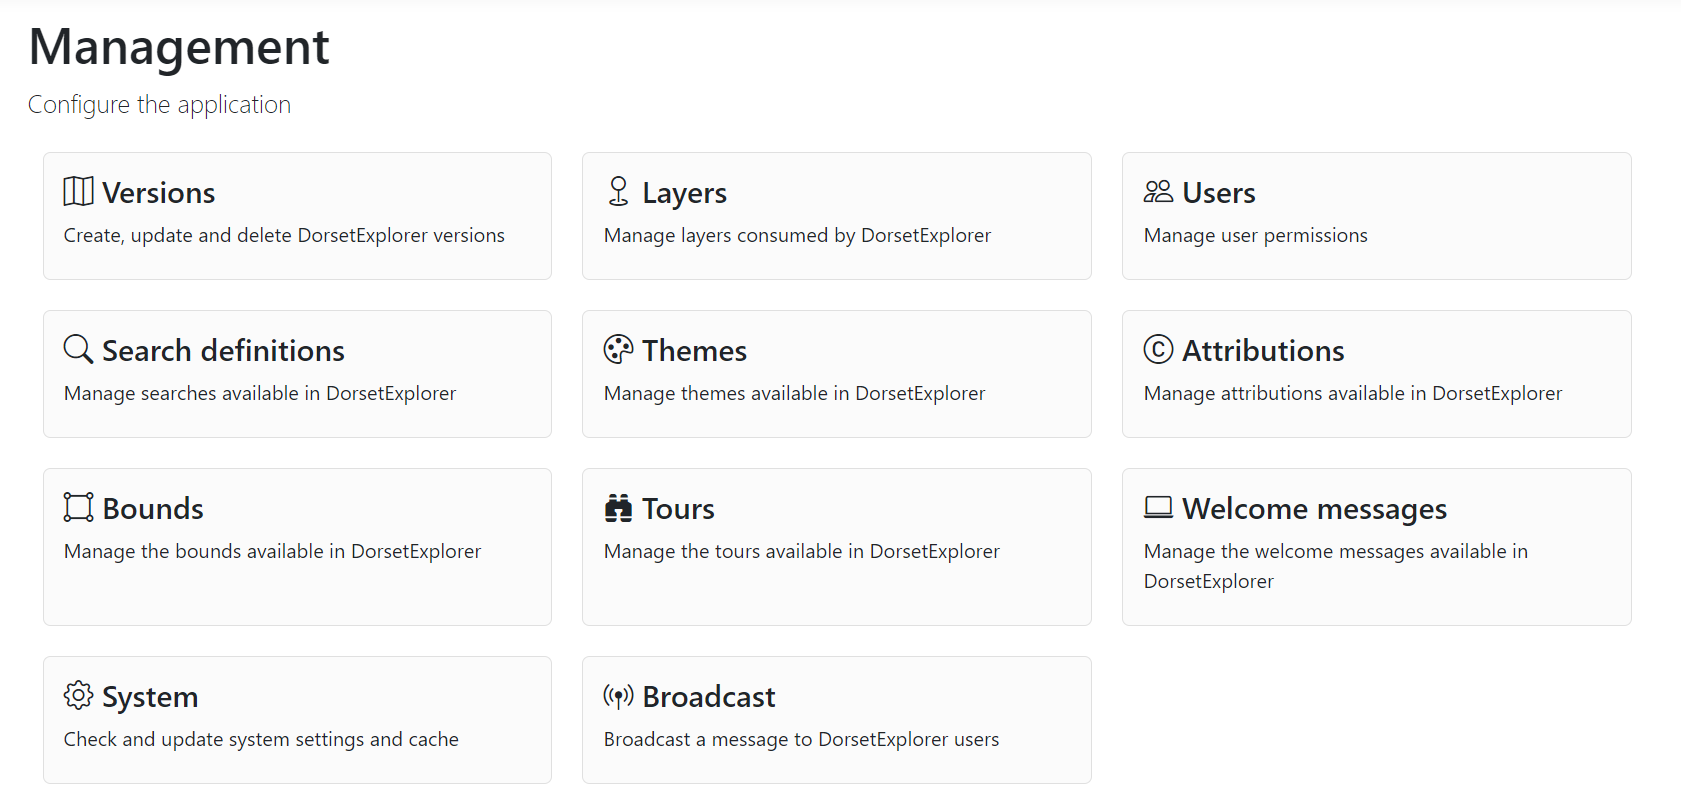
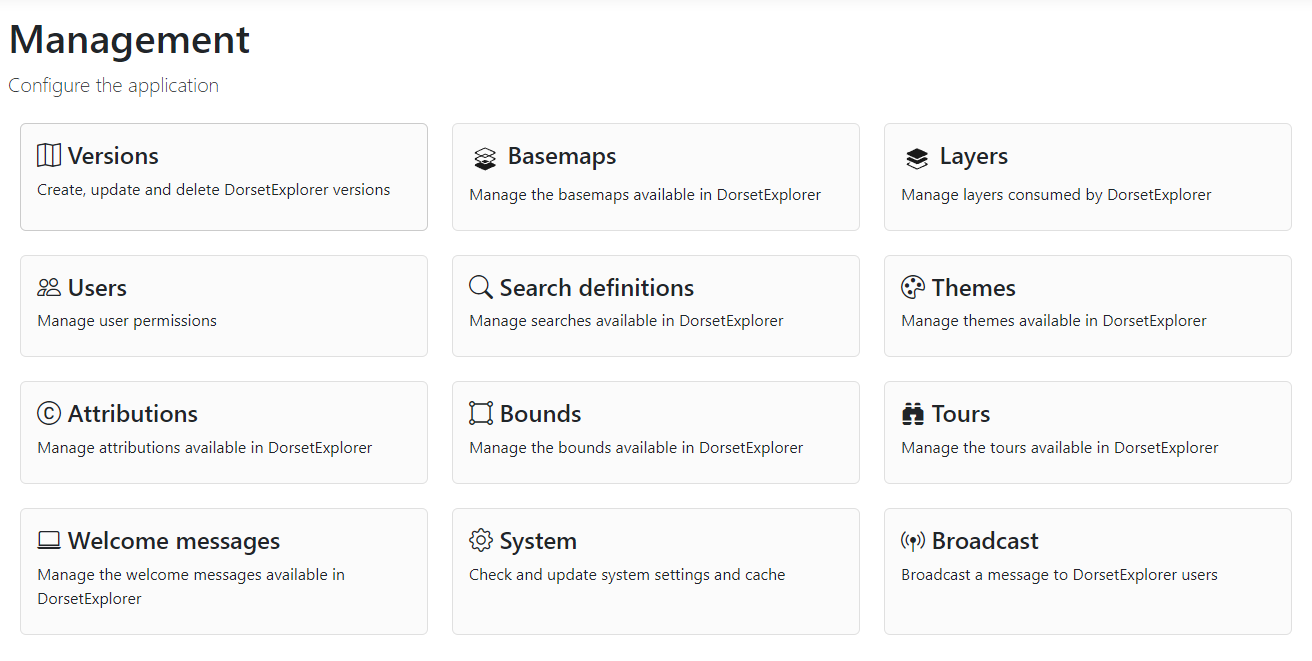
Add basemaps GUI and update image

diff --git a/docs/gui/basemaps.md b/docs/gui/basemaps.md
@@ -1,0 +1,21 @@
+# Basemaps
+
+All [versions](../gui/versions.md) have one or more basemaps (sometimes referred to as background maps). A basemap is made up of a layer source and a basemap definition.
+
+### Creating the layer source
+
+A basemap first requires a [layer source](../gui/layers.md) to be created that defines where the layer comes from.
+
+The easiest way to create a layer source and then a basemap is to use the [layer wizard](../gui/layers.md#add-a-new-layer-using-the-wizard). This will take you through the steps to create a layer source and then present you with the basemap configuration interface.
+
+### Configuring a basemap
+
+A basemap is similar to a layer, but with a few less options.
+
+- Name: The friendly name for the basemap
+- Minimum viewable zoom level: This is the furthest zoomed out this basemap can be rendered at. This will restrict the map from being zoomed out any further than this
+- Maximum viewable zoom level: This is the furthest zoomed in this basemap can be rendered at. This will restrict the map from being zoomed in any further than this
+- Preview image URL: A URL to a preview image that will appear in the basemaps panel. This can be any valid image file. We recommend it be around 800x200 pixels
+- Max bounds: The maximum extent that this basemap should render to. Can be used to prevent basemaps being shown outside of your area of interest
+
+Once created, the basemap can be added to versions just like any other.
